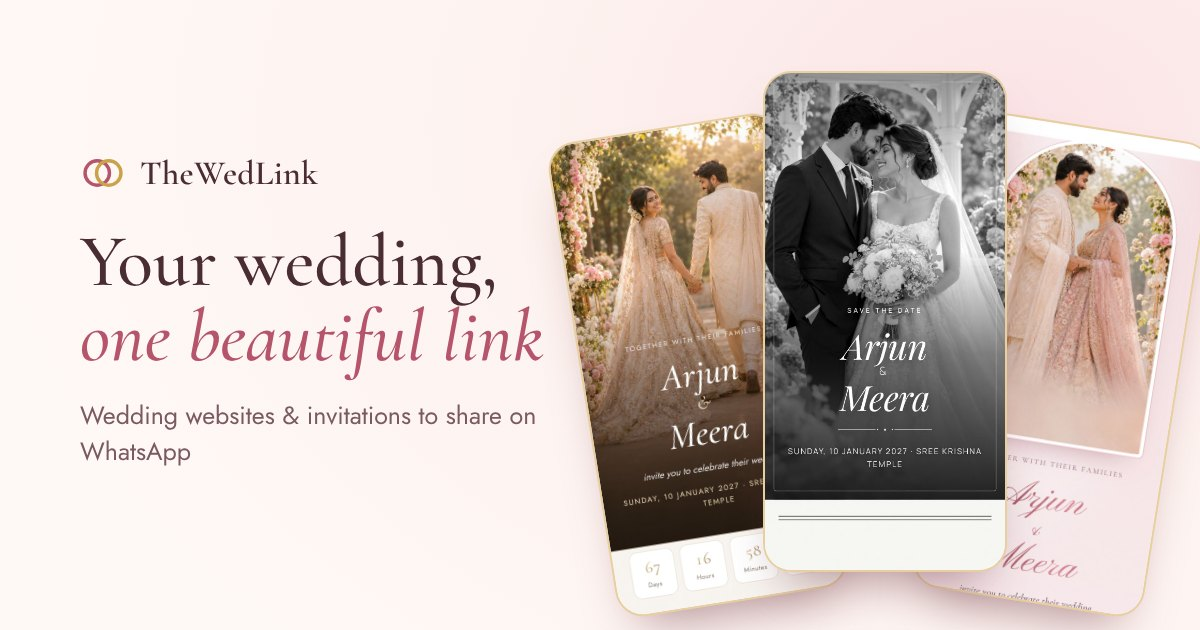
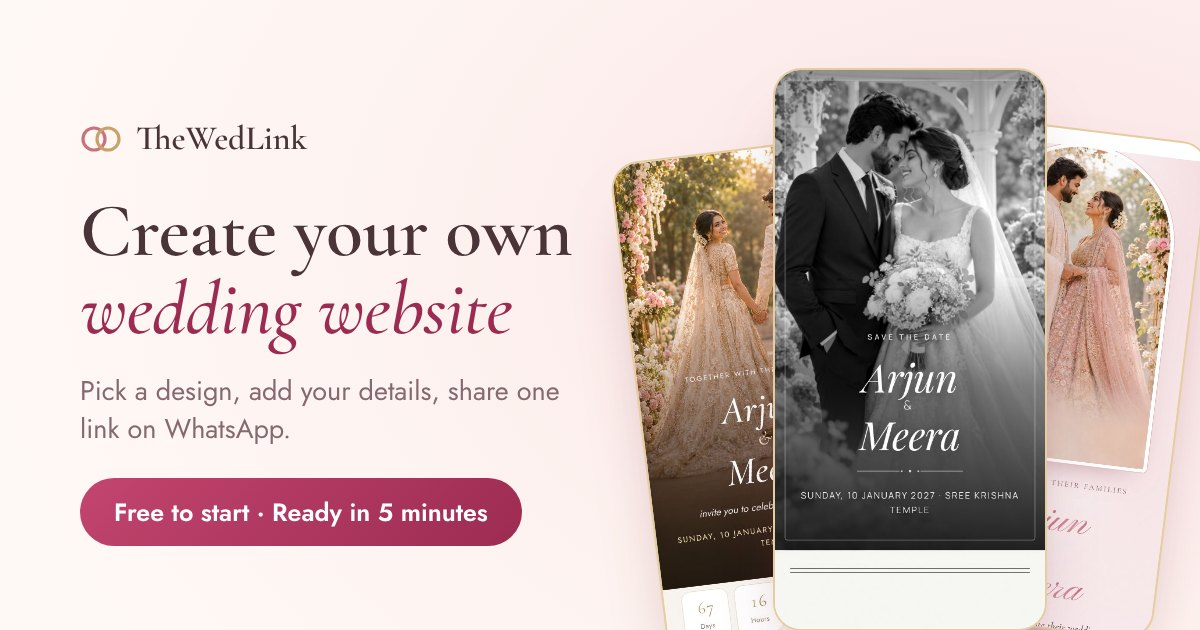
Home page leads with 'Create your own wedding website'; new share image and description
Claude-Session: https://claude.ai/code/session_01HTLJ5qXdA6w9sojxHduBi6

diff --git a/assets/site.css b/assets/site.css
@@ -1228,3 +1228,22 @@ s.was { color: var(--plum-2); opacity: .7; font-weight: 400; font-size: .7em; ma
 .review-sample { position: absolute; top: 18px; right: 18px; font: 600 .66rem var(--body); font-style: normal; letter-spacing: .1em; text-transform: uppercase; color: #8A6A3A; background: #FFF4DE; padding: 4px 10px; border-radius: 99px; }
 .home .reviews-sec { background: linear-gradient(180deg, #FFFBFA, var(--rose)); }
 @media (max-width: 900px) { .reviews { grid-template-columns: 1fr; gap: 14px; } .review { padding: 26px 22px 22px; } .review blockquote { font-size: 1.18rem; } }
+
+/* ===== hero says what the product is: "Create your own wedding website" ===== */
+.hero-h1 { font-family: var(--display); font-weight: 600; font-size: clamp(2.7rem, 4.7vw, 4.4rem); line-height: 1.04; color: var(--plum); letter-spacing: -.01em; animation: siteRise .9s cubic-bezier(.2,.7,.2,1) both; }
+.hero-h1 em { font-style: italic; color: #9C2B52; display: block; }
+.hero-sub { margin-top: 18px; font-size: 1.14rem; line-height: 1.6; color: var(--plum-2); max-width: 30em; animation: siteRise .9s cubic-bezier(.2,.7,.2,1) .1s both; }
+.hero.lux-hero .hero-title { font-size: 2.5rem !important; margin-top: 30px; line-height: 1.1 !important; }
+.hero.lux-hero .hero-title .pre { font: 700 .74rem/1 var(--body) !important; font-style: normal !important; letter-spacing: .14em; text-transform: uppercase; color: var(--kumkum-d) !important; margin-bottom: 12px !important; }
+.hero.lux-hero .hero-title .names { font-size: 1em !important; }
+.hero.lux-hero .hero-hint { font-family: var(--body); font-size: .92rem !important; margin-top: 10px !important; }
+.hero.lux-hero .hero-cta { margin-top: 26px; }
+@media (max-width: 900px) {
+  .hero.lux-hero .eyebrow, .hero.lux-hero .hero-hint { display: none !important; }
+  .hero-h1 { font-size: clamp(1.95rem, 8.6vw, 2.35rem); text-align: center; margin-top: 2px; }
+  .hero-sub { font-size: .98rem; line-height: 1.5; margin: 10px auto 0; text-align: center; max-width: 22.5em; }
+  .hero.lux-hero .hero-title { font-size: 1.65rem !important; margin-top: 16px; }
+  .hero.lux-hero .hero-title .pre { font-size: .64rem !important; margin-bottom: 8px !important; text-align: center; }
+  .hero.lux-hero { --ph: clamp(250px, calc(100vh - 462px), 500px) !important; --ph: clamp(250px, calc(100svh - 462px), 500px) !important; }
+  .hero.lux-hero .fan { margin-top: 14px !important; }
+}

diff --git a/index.php b/index.php
@@ -29,8 +29,8 @@ $ogSlot = slot_url('og');
 $nThemes = count(THEMES);
 $pb = price('biodata');
 $customFrom = trim(setting('custom_from'));
-site_head('Wedding Website for WhatsApp: One Link for Every Guest | ' . $brand,
-    "One link. Every guest knows where to go, and you know who's coming. Make yours free in 5 minutes.",
+site_head('Create Your Wedding Website: One Link for Every Guest | ' . $brand,
+    "Create your own wedding website in 5 minutes. Pick a design, add your details and share one link with every guest on WhatsApp. Free to start.",
     '/assets/og/home.jpg', '', ['path' => '/', 'jsonld' => [ld_org(), ld_website(), ld_faq(site_faq()),
         ld_app($brand . ' wedding website maker', 'Make a free wedding invitation website to share on WhatsApp, with events, maps, countdown, RSVP, gift list and photos.', '/',
             ['Free wedding website', 'Wedding invitation for WhatsApp', 'Google Maps directions for every event', 'Countdown', 'RSVP and guest list', 'Gift list', 'Photo gallery and music', 'Hindu, Christian, Muslim, Sikh and Kerala designs'],
@@ -45,13 +45,14 @@ site_head('Wedding Website for WhatsApp: One Link for Every Guest | ' . $brand,
     <?= slot_img('hero', '', '', false) ?>
     <div class="wrap hero-grid">
       <div class="hero-copy">
-        <h1 class="eyebrow"><svg viewBox="0 0 20 20" aria-hidden="true"><rect x="2.5" y="3.5" width="15" height="13" rx="2.5" fill="none" stroke="currentColor" stroke-width="1.8"/><path d="M2.5 7.5h15" stroke="currentColor" stroke-width="1.8"/></svg><span>One link for <b>every wedding guest</b></span></h1>
+        <p class="eyebrow"><svg viewBox="0 0 20 20" aria-hidden="true"><rect x="2.5" y="3.5" width="15" height="13" rx="2.5" fill="none" stroke="currentColor" stroke-width="1.8"/><path d="M2.5 7.5h15" stroke="currentColor" stroke-width="1.8"/></svg><span>Wedding website maker</span></p>
+        <h1 class="hero-h1">Create your own <em>wedding website</em></h1>
+        <p class="hero-sub">Pick a design, add your wedding details and share one link with every guest on WhatsApp. Ready in 5 minutes.</p>
         <div class="hero-title">
-          <span class="pre">A wedding website for</span>
+          <span class="pre">Try it with your names</span>
           <span class="names" id="names"><label class="sr" for="n1">First name</label><span class="name-box hint"><input class="name-in" id="n1" value="Arjun" maxlength="24" autocomplete="off" spellcheck="false"><i class="name-caret" aria-hidden="true"></i><svg class="name-pen" viewBox="0 0 20 20" aria-hidden="true"><path d="M3 17l3.5-1 9-9-2.5-2.5-9 9L3 17z" fill="none" stroke="currentColor" stroke-width="1.8" stroke-linejoin="round"/></svg></span><span class="amp">&amp;</span><label class="sr" for="n2">Second name</label><span class="name-box"><input class="name-in" id="n2" value="Meera" maxlength="24" autocomplete="off" spellcheck="false"><i class="name-caret" aria-hidden="true"></i><svg class="name-pen" viewBox="0 0 20 20" aria-hidden="true"><path d="M3 17l3.5-1 9-9-2.5-2.5-9 9L3 17z" fill="none" stroke="currentColor" stroke-width="1.8" stroke-linejoin="round"/></svg></span></span>
         </div>
-        <p class="hero-hint">Tap the names and make it yours.</p>
-        <p class="hero-lead"><b>One link. Every guest knows where to go, and you know who's coming.</b> Maps to every venue, your story and photos, RSVP, and changes that reach everyone at once. Send it on WhatsApp.</p>
+        <p class="hero-hint">Type your names and watch the preview change.</p>
         <div class="hero-cta">
           <a class="btn js-make" href="/create">Create our wedding website</a>
           <small>Your card for the elders. Your link for everyone.</small>
